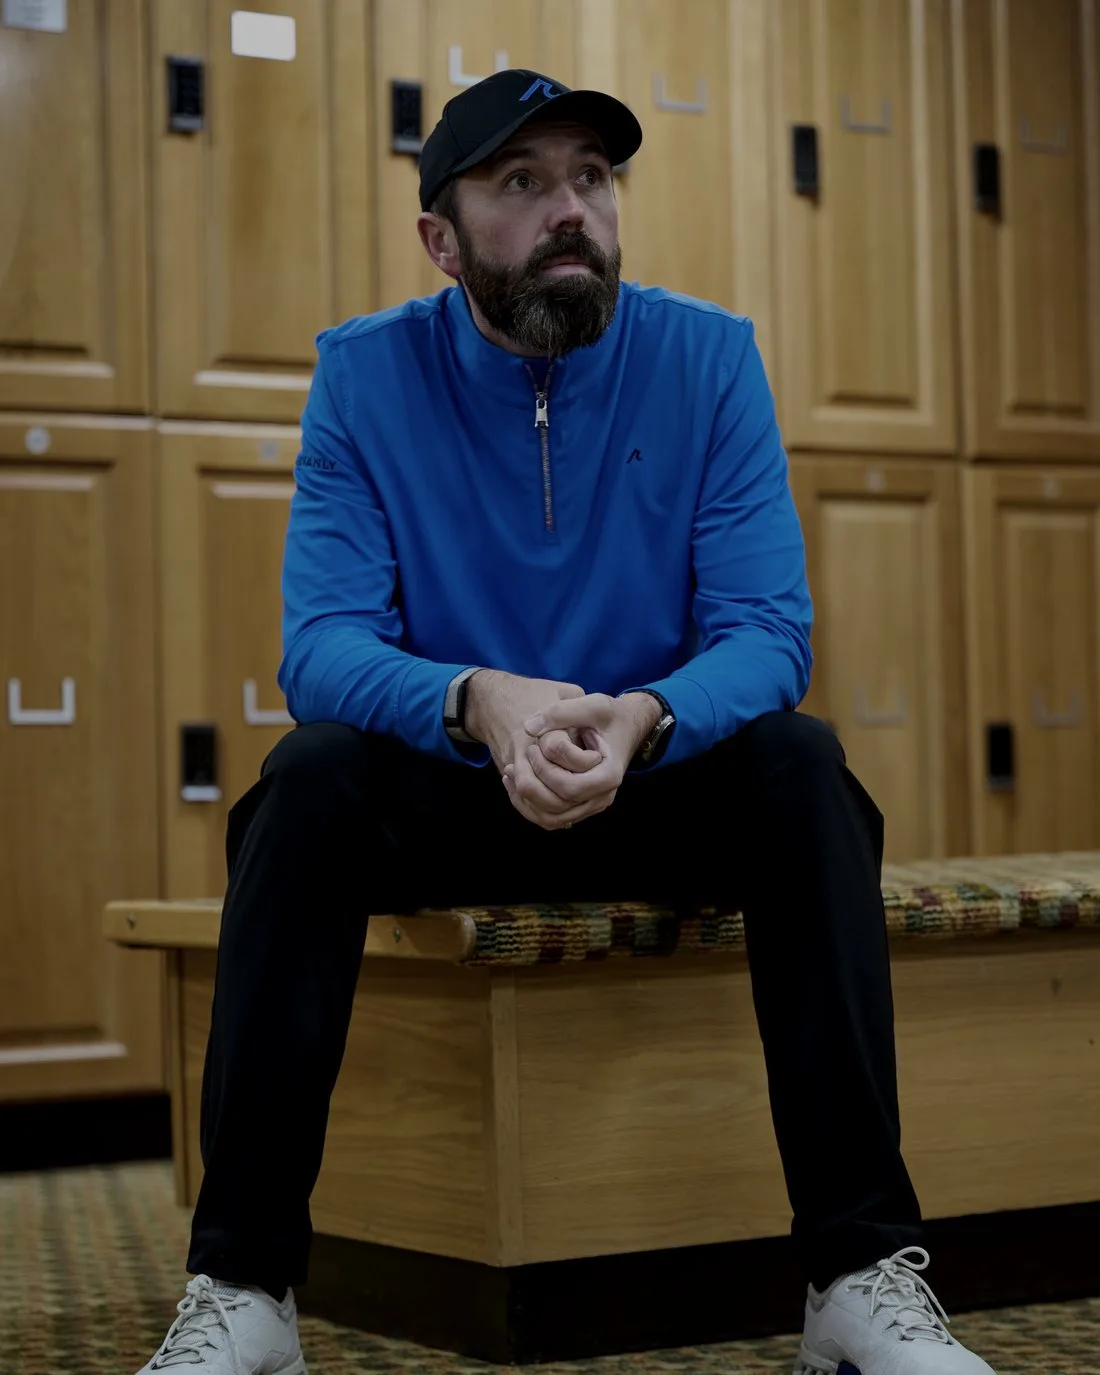
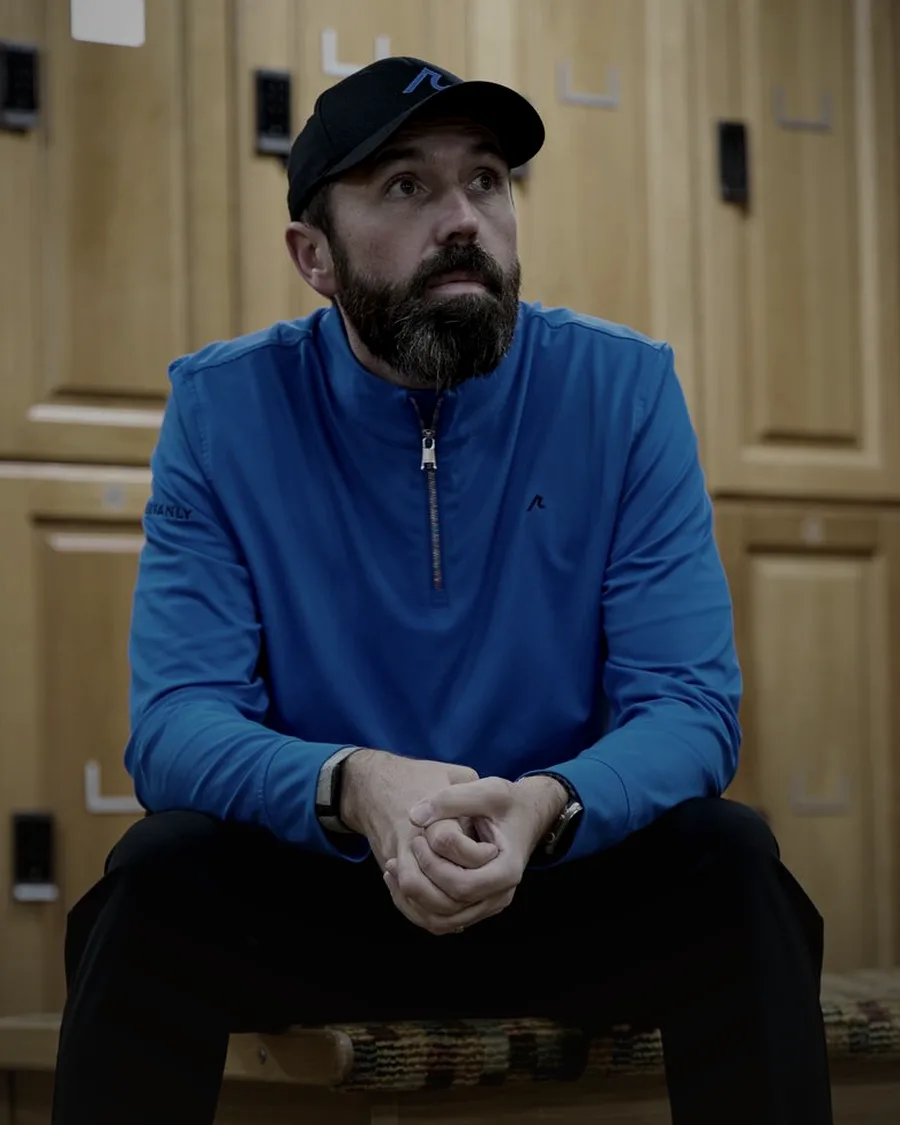
Hero: clearer CTAs, creator benefit line, subscriptions figure, calmer premium books
- Primary CTA 'Build your newsletter' + 'Explore our publications' link; header 'Let's talk'
- Benefit sentence; 'monetise'
- Audience figure smaller, relabelled 'newsletter subscriptions across our network'
- Remove orange connector line
- Consistent spine, softer shadows, less rotation; tighter, toned Rick portrait

Claude-Session: https://claude.ai/code/session_012z64o4o25tuqN72Mvw7eko

diff --git a/index.html b/index.html
@@ -4,9 +4,9 @@
   <meta charset="utf-8">
   <meta name="viewport" content="width=device-width, initial-scale=1">
   <meta name="theme-color" content="#f7f7f3">
-  <meta name="description" content="Tracerrr builds, grows and monetizes creator newsletters. Follow the story from a following to a lasting media business.">
+  <meta name="description" content="Tracerrr builds, grows and monetises creator newsletters. Follow the story from a following to a lasting media business.">
   <meta property="og:title" content="Tracerrr — A following is only the beginning.">
-  <meta property="og:description" content="Different voices. One growing network. We build, grow and monetize creator newsletters.">
+  <meta property="og:description" content="Different voices. One growing network. We build, grow and monetise creator newsletters.">
   <meta property="og:type" content="website">
   <meta property="og:url" content="https://tracerrr.com/">
   <meta property="og:image" content="https://tracerrr.com/og-image.png">
@@ -30,7 +30,7 @@
     <nav class="desktop-nav" aria-label="Main navigation">
       <a href="#publications">Publications</a><a href="#contact" data-contact="creator">For creators</a><a href="#brands">For brands</a><a href="#about">About</a>
     </nav>
-    <a class="button small" href="#contact" data-contact="creator">Build with us</a>
+    <a class="button small" href="#contact" data-contact="general">Let&rsquo;s talk</a>
     <button class="menu-button" type="button" aria-expanded="false" aria-controls="mobile-nav">Menu <span aria-hidden="true">+</span></button>
   </header>
   <nav class="mobile-nav" id="mobile-nav" aria-label="Mobile navigation" hidden>
@@ -41,12 +41,12 @@
       <div class="hero-copy">
         <div class="eyebrow">THE NEXT CHAPTER OF CREATOR MEDIA</div>
         <h1 id="hero-title"><span class="hero-title-line">A following is</span><br>only the<br>beginning<span class="orange">.</span></h1>
-        <p class="hero-description">We build, grow and monetize<br class="desktop-break"> creator newsletters.</p>
-        <a class="button" href="#story">Follow the story</a>
-        <div class="live-total" id="live-total" hidden aria-live="polite"><span class="live-dot" aria-hidden="true"></span><span class="live-number" id="live-number">0</span><span class="live-label">readers across the Tracerrr network</span></div>
+        <p class="hero-description">We build, grow and monetise<br class="desktop-break"> creator newsletters.</p>
+        <p class="hero-benefit">Own a direct line to your fans, and a revenue stream that doesn&rsquo;t depend on the algorithm.</p>
+        <div class="hero-actions"><a class="button" href="#contact" data-contact="creator">Build your newsletter</a><a class="hero-link" href="#publications">Explore our publications <span aria-hidden="true">&rarr;</span></a></div>
+        <div class="live-total" id="live-total" hidden aria-live="polite"><span class="live-dot" aria-hidden="true"></span><span class="live-number" id="live-number">0</span><span class="live-label">newsletter subscriptions across our network</span></div>
       </div>
       <div class="hero-art" aria-label="Explore our publications">
-        <svg class="hero-thread" viewBox="0 0 760 650" aria-hidden="true"><path d="M-60 455 C110 455 104 290 258 319 S330 39 457 87 S508 460 638 461 S715 530 792 515"/></svg>
         <button class="paper paper-switch" type="button" data-publication="switch" aria-label="Open The Switch preview">
           <span class="book-jacket">
           <span class="paper-meta">KEVIN PIETERSEN</span>
@@ -60,7 +60,7 @@
           <span class="book-jacket">
           <span class="paper-meta">RICK SHIELS</span>
           <span class="paper-name serif">The Extra Slice</span>
-          <img src="assets/slice-cover.webp" alt="Rick Shiels sitting in a golf club locker room" width="1100" height="1375">
+          <img src="assets/slice-cover.webp" alt="Rick Shiels sitting in a golf club locker room" width="900" height="1125">
           <span class="book-subtitle">Behind the camera.</span>
           <span class="paper-bottom">GOLF, BEYOND THE VIDEOS</span>
           </span>
@@ -143,7 +143,7 @@
       <div class="publication-grid" id="publication-grid">
         <article class="publication" data-category="golf">
           <button class="publication-art green-art" type="button" data-publication="slice" aria-label="Explore The Extra Slice">
-            <span class="cover-creator">Rick Shiels</span><span class="publication-masthead serif">THE EXTRA SLICE</span><img src="assets/slice-cover.webp" alt="" width="1100" height="1375" loading="lazy" decoding="async"><span class="publication-coverline serif">Behind the camera.</span><span class="edition-label">AN EDITORIAL PREVIEW</span>
+            <span class="cover-creator">Rick Shiels</span><span class="publication-masthead serif">THE EXTRA SLICE</span><img src="assets/slice-cover.webp" alt="" width="900" height="1125" loading="lazy" decoding="async"><span class="publication-coverline serif">Behind the camera.</span><span class="edition-label">AN EDITORIAL PREVIEW</span>
           </button>
           <div class="publication-info"><div><h3>The Extra Slice</h3><p><strong>Rick Shiels</strong> · Golf</p></div><button class="text-button" type="button" data-publication="slice">Explore <span aria-hidden="true">+</span></button></div>
         </article>

diff --git a/style.css b/style.css
@@ -550,3 +550,31 @@ html{scroll-padding-top:calc(var(--hh,84px) + 12px)}
 .live-label{max-width:none;white-space:nowrap}
 @media(max-width:420px){.live-label{white-space:normal}}
 @media(max-width:560px){.live-total{flex-wrap:wrap;row-gap:6px}.live-label{white-space:nowrap;flex-basis:100%;padding-left:24px}}
+
+/* ---------- Hero refinements ---------- */
+.hero-description{margin-bottom:12px}
+.hero-benefit{font-size:17px;line-height:1.5;color:#3b3b37;max-width:27em;margin:0 0 26px}
+.hero-actions{display:flex;align-items:center;gap:26px;flex-wrap:wrap}
+.hero-link{font-size:15px;font-weight:600;border-bottom:1px solid currentColor;padding-bottom:2px}
+.hero-link:hover{color:var(--orange)}
+.live-total{margin-top:30px;gap:12px}
+.live-number{font-size:clamp(28px,2.7vw,40px);letter-spacing:-.04em}
+.live-label{font-size:14px;font-weight:500;color:#3b3b37}
+.live-dot{width:8px;height:8px}
+
+/* Books as premium objects: one spine construction, softer shadows, calmer angles. */
+.paper{box-shadow:1px 1px 0 #0000001f,0 18px 30px -18px #0006,0 6px 12px -8px #0003!important;border-radius:2px 4px 4px 2px}
+.paper:hover{box-shadow:1px 1px 0 #0000001f,0 26px 36px -20px #0006,0 8px 14px -8px #0003!important}
+.paper:before{width:14px;background:linear-gradient(90deg,#00000059 0,#ffffff1f 22%,#00000033 45%,#ffffff14 60%,#0000 100%)!important}
+.paper:after{top:4px;bottom:-4px;right:-7px;width:8px;border-right-width:2px!important;border-bottom-width:2px!important;box-shadow:none!important}
+.paper-bryan{transform:rotate(0deg) rotateY(-6deg)}
+.paper-bryan:hover{transform:rotateY(-3deg) translateY(-8px)}
+.paper-switch{transform:rotate(-3deg) rotateY(-7deg)}
+.paper-switch:hover{transform:rotate(-1.5deg) rotateY(-4deg) translateY(-8px)}
+.paper-green{transform:rotate(3deg) rotateY(-7deg)}
+.paper-green:hover{transform:rotate(1.5deg) rotateY(-4deg) translateY(-8px)}
+@media(max-width:700px){.paper-bryan{transform:rotate(0deg)}.paper-switch{transform:rotate(-4deg)}.paper-green{transform:rotate(4deg)}.hero-benefit{font-size:16px}.hero-actions{gap:18px}}
+.paper{cursor:pointer}
+.paper-green img{object-position:center 12%}
+.green-art img{object-position:center 18%}
+@media(min-width:701px) and (max-width:1199px){.hero-benefit{max-width:340px;font-size:16px}}
